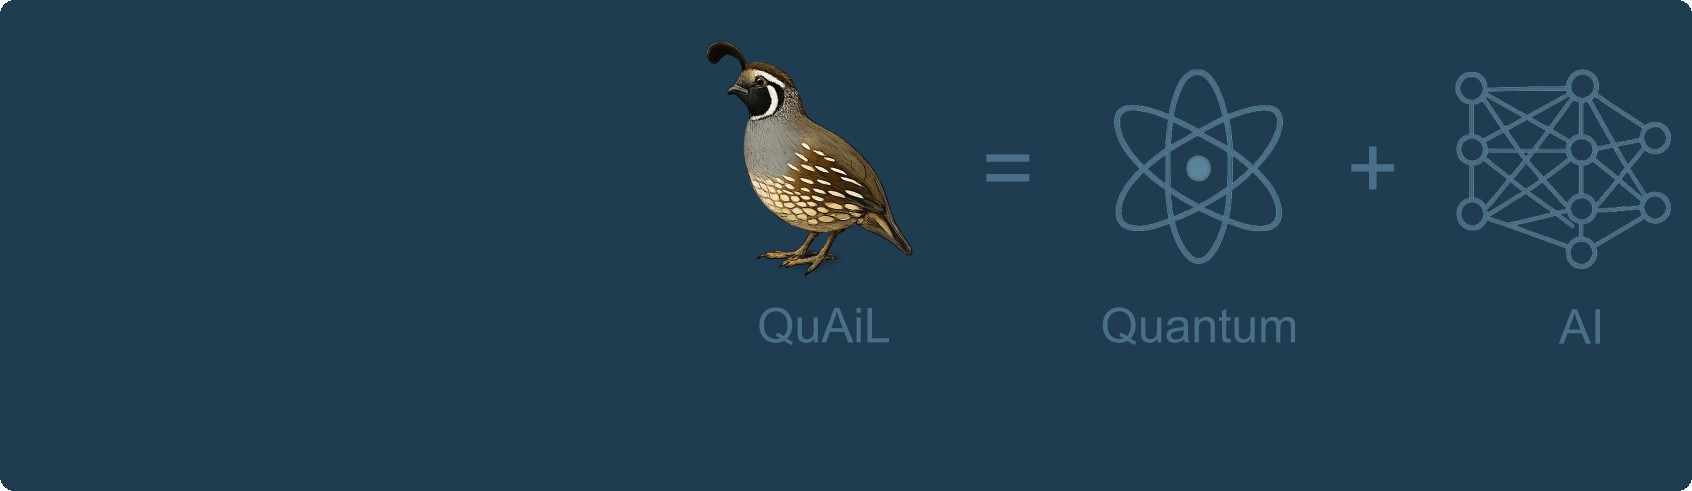
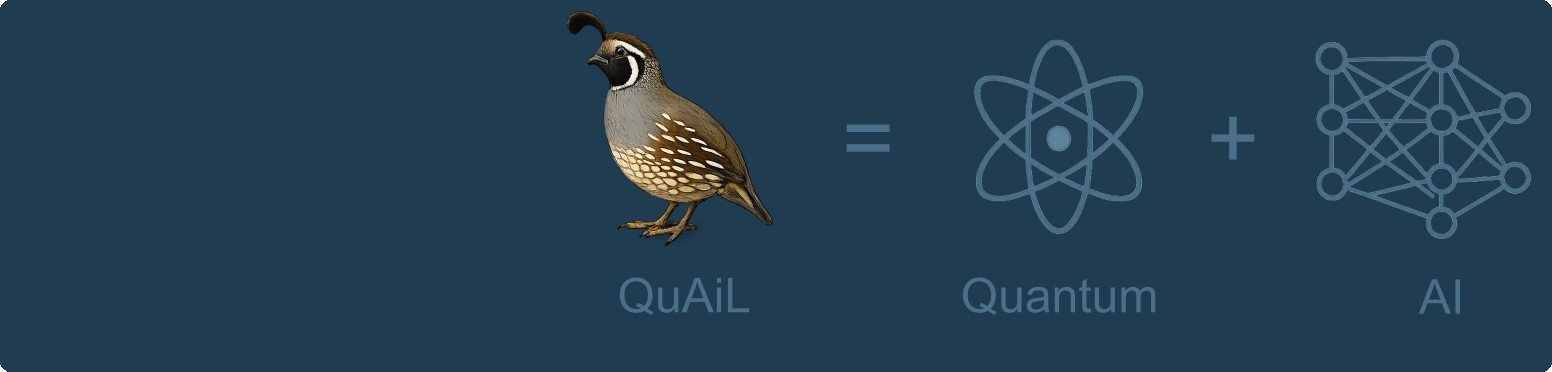
update

diff --git a/_layouts/default.html b/_layouts/default.html
@@ -34,7 +34,7 @@ layout: compress
 
 {% include masthead.html %}
 
-<div style="position: absolute; width: 90%; top: 80px; left: 0; pointer-events: none; z-index: 0; overflow: hidden;">
+<div style="position: absolute; width: 100%; top: 80px; left: 0; pointer-events: none; z-index: 0; overflow: hidden;">
   <img src="{{ '/images/Group_image.jpeg' | relative_url }}" 
         style="display: block; 
               margin: 0 auto; 
